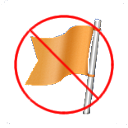
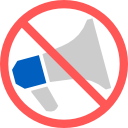
Update Opera 15+ to 0.4.0.1
Update icons
Remove ga code
Fix bugs

diff --git a/QCLean-Opera-15+/qclean.js b/QCLean-Opera-15+/qclean.js
@@ -1,9 +1,10 @@
+console.log("Load qclean.js");
 var qclean = qclean || {};
 
 qclean.removeADsLink = function(){
 
     var adsLink = document.getElementsByClassName("adsCategoryTitleLink");
-
+    var combo = 0;
     while(adsLink.length>0){
         for(var i=0;i<adsLink.length;i++){
             var target = adsLink[i].parentNode.parentNode.parentNode.parentNode.parentNode.parentNode.parentNode;
@@ -11,8 +12,25 @@ qclean.removeADsLink = function(){
             console.log('Remove ads');
         }
         adsLinkk = document.getElementsByClassName("adsCategoryTitleLink");
+        combo++;
+        if(combo>3){
+            //TODO - report more useful information for fix bugs.
+            console.log("Found but can not remove Q____Q");
+            break;
+        }
     }
 };
+
+if(qclean.storyClassNames==undefined){
+    qclean.storyClassNames = [
+        "_6ns _8ru _59hp",
+        "_6ns _5jmm _5jmm",
+        "_5jmm _5pat _5srp",
+        "_5jmm _5pat _5uch",
+        "_5uch _5jmm _5pat",
+        "_4-u2 mbm _5jmm _5pat _5v3q _5sq8 _5x16"
+        ];
+}
 
 qclean.removeSponsored = function(){
 
@@ -31,14 +49,25 @@ qclean.removeSponsored = function(){
                     }
                 }else if(n.parentNode.nodeName=="DIV"){
                     if(n.parentNode.hasAttribute("class")){
-                        if(n.parentNode.getAttribute("class").match("_6ns _8ru _59hp")){
-                            //for new fb newsfeed
-                            found = true;
+                        var className = n.parentNode.getAttribute("class");
+                        for(var i = 0; i<qclean.storyClassNames.length; i++){
+                            if(className.match(qclean.storyClassNames[i])){
+                                found = true;
+                                break;
+                            }
+                        }
+                        if(found){
                             break;
-                        }else if(n.parentNode.getAttribute("class").match("_5jmm _5pat _5srp")){                    
-                            //fb change its class name, jizz
-                            found = true;
-                            break;
+                        }else{
+                            if(n.parentNode.hasAttribute("data-ft")){
+                                var dataFt = JSON.parse(n.parentNode.getAttribute("data-ft"));
+                                if(dataFt["mf_story_key"]!=undefined){
+                                    found = true;
+                                    console.log("class "+className+" may be story class name.");
+                                    break;
+                                }
+
+                            }
                         }
                     }
                 }
@@ -54,10 +83,11 @@ qclean.removeSponsored = function(){
         combo++;
         if(combo>3){
             //TODO - notify there is some thing new/unknow
+            console.log("Found but can not remove Q____Q");
             break;
         }
     }
-}
+};
 
 qclean.removeSponsored();
 qclean.removeADsLink();

diff --git a/QCLean-Opera-15+/background.js b/QCLean-Opera-15+/background.js
@@ -1,4 +1,4 @@
-var qclean_version = "0.3.1.1";
+var qclean_version = "0.4.0.1";
 
 var qclean_fb_url_regexp = new RegExp("^(http://|https://).*\.facebook\.com/");
 
@@ -9,18 +9,4 @@ function qclean_check_fb_url(tabId, changeInfo, tab) {
 };
 
 chrome.tabs.onUpdated.addListener(qclean_check_fb_url);
-
-/* GA */
-var _gaq = _gaq || [];
-_gaq.push(['_setAccount', 'UA-3607701-4']);
-_gaq.push(['_trackPageview']);
-
-_gaq.push(['_trackEvent','OperaExtVersion',qclean_version]);
-
-(function() {
-    var ga = document.createElement('script'); ga.type = 'text/javascript'; ga.async = true;
-    ga.src = 'https://ssl.google-analytics.com/ga.js';
-    var s = document.getElementsByTagName('script')[0]; s.parentNode.insertBefore(ga, s);
-})();
-
 

diff --git a/QCLean-Opera-15+/popup.html b/QCLean-Opera-15+/popup.html
@@ -2,17 +2,6 @@
 <html>
 <head>
     <meta charset="utf-8" />
-    <script>
-var _gaq = _gaq || [];
-_gaq.push(['_setAccount', 'UA-3607701-4']);
-_gaq.push(['_trackPageview']);
-
-(function() {
-    var ga = document.createElement('script'); ga.type = 'text/javascript'; ga.async = true;
-    ga.src = 'https://ssl.google-analytics.com/ga.js';
-    var s = document.getElementsByTagName('script')[0]; s.parentNode.insertBefore(ga, s);
-})();
-    </script>
 </head>
 <body>
     <center><img src="qclean48.png" /></center>
